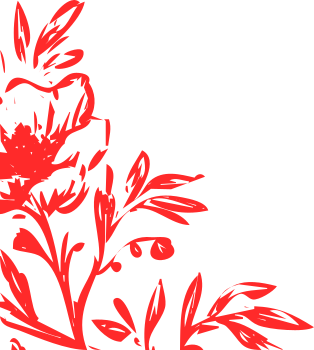
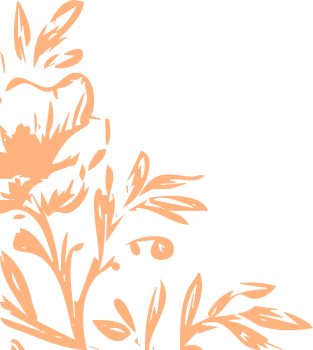
update of styles

Changed region(s): [[0.0, 0.0, 0.6613, 1.0], [0.5463, 0.7714, 1.0, 1.0], [0.4026, 0.6571, 0.5751, 0.7429]]

diff --git a/index.html b/index.html
@@ -49,7 +49,7 @@
       display: flex;
       flex-direction: column;
       position: relative;
-      background-color: #e5e6dcff;
+      background-color: rgb(249, 249, 247);
     }
 
     /* Navigation Bar / Tabs */
@@ -251,11 +251,11 @@
           height: auto;
         }
         .bottom-image{
-          width: 100px;
+          width: 80px;
           height: auto;
         }
         .top-image{
-          width: 100px;
+          width: 80px;
           height: auto;
         }
 
@@ -272,9 +272,33 @@
           margin-bottom: 40px;
         }
         #couple-image{
-          width: 420px;
+          width: 340px;
           height: auto;
+          margin-bottom: 20px;
+          border-radius: 8px;
         }
+
+        .countdown {
+      display: flex;
+      justify-content: center;
+      gap: 20px;
+      text-align: center;
+      margin-bottom: 30px;
+    }
+
+    .countdown div {
+      background: #ddb068;
+      color: #fff;
+      padding: 15px;
+      border-radius: 8px;
+      width: 70px;
+    }
+
+    .countdown div span {
+      display: block;
+      font-size: 1.1em;
+      font-weight: bold;
+    }
   </style>
 </head>
 <body>
@@ -295,8 +319,15 @@
     <!-- PAGE 1: Invitation & Couple Details -->
     <div class="page-section active" id="page-0">
       <p class="subtitle">The Wedding Celebration</p>
-      <div id="image-container"><img src="couple-image.png" id="couple-image"></div>
+      <div id="image-container"><img src="realistic-couple.jpeg" id="couple-image"></div>
       <h1 class="couple-names">Tonny and Emily</h1>
+    <!--code for countdown timer-->
+    <div class="countdown">
+      <div><span id="days">0</span>Days</div>
+      <div><span id="hours">0</span>Hours</div>
+      <div><span id="minutes">0</span>Min</div>
+      <div><span id="seconds">0</span>Sec</div>
+    </div>
       <img src="ring design.png" width="150px">
       <p class="invitation-text">
         Together with their families, invite you to celebrate the joyous occasion of their marriage.
@@ -340,6 +371,7 @@
       </div>
       <p class="invitation-text">Accept request to attend by 20th December 2026.</p>
       <p class="invitation-text"><i>Please note that no kids are allowed.</i></p>
+      <p class="invitation-text"><i>Monetary gifts of K500 per couple and K300 singles are greatly appreciated.</i></p>
       <p class="invitation-text" class="color-theme">Color theme is burgundy.</p>
     </div>
 
@@ -351,25 +383,25 @@
       <div class="timeline">
         <div class="timeline-item">
           <div class="timeline-dot"></div>
-          <div class="timeline-time">8:00 AM</div>
+          <div class="timeline-time">8:00 hrs</div>
           <div class="timeline-title">Guest Arrival & Seating</div>
           <div class="timeline-desc">welcoming of guests & family members</div>
         </div>
         <div class="timeline-item">
           <div class="timeline-dot"></div>
-          <div class="timeline-time">9:00 AM</div>
+          <div class="timeline-time">9:00 hrs</div>
           <div class="timeline-title">The Ceremony</div>
           <div class="timeline-desc">Exchange of vows & rings</div>
         </div>
         <div class="timeline-item">
           <div class="timeline-dot"></div>
-          <div class="timeline-time">2:00 PM</div>
+          <div class="timeline-time">14:00 hrs</div>
           <div class="timeline-title">Photo Shoot</div>
           <div class="timeline-desc">Photos with the bride & groom</div>
         </div>
         <div class="timeline-item">
           <div class="timeline-dot"></div>
-          <div class="timeline-time">4:00 PM</div>
+          <div class="timeline-time">16:00 hrs</div>
           <div class="timeline-title">Reception & Dinner</div>
           <div class="timeline-desc">Toasts, dining, and dancing</div>
         </div>
@@ -415,6 +447,36 @@
         switchPage(newPage);
       }
     }
+
+
+
+    // script for the countdown timer
+    // Set the wedding date
+    const weddingDate = new Date("Jan 3, 2027 12:00:00").getTime();
+
+    // Update countdown every second
+    const timer = setInterval(function() {
+      const now = new Date().getTime();
+      const distance = weddingDate - now;
+
+      // Calculate time parts
+      const days = Math.floor(distance / (1000 * 60 * 60 * 24));
+      const hours = Math.floor((distance % (1000 * 60 * 60 * 24)) / (1000 * 60 * 60));
+      const minutes = Math.floor((distance % (1000 * 60 * 60)) / (1000 * 60));
+      const seconds = Math.floor((distance % (1000 * 60)) / 1000);
+
+      // Display results
+      document.getElementById("days").innerText = days;
+      document.getElementById("hours").innerText = hours;
+      document.getElementById("minutes").innerText = minutes;
+      document.getElementById("seconds").innerText = seconds;
+
+      // If countdown is finished
+      if (distance < 0) {
+        clearInterval(timer);
+        document.body.innerHTML = "<h1>🎉 Just Married! 🎉</h1>";
+      }
+    }, 1000); // end of script for countdown timer
 
     // Automatically generate QR code on page load pointing to RSVP link
     window.onload = function() {
